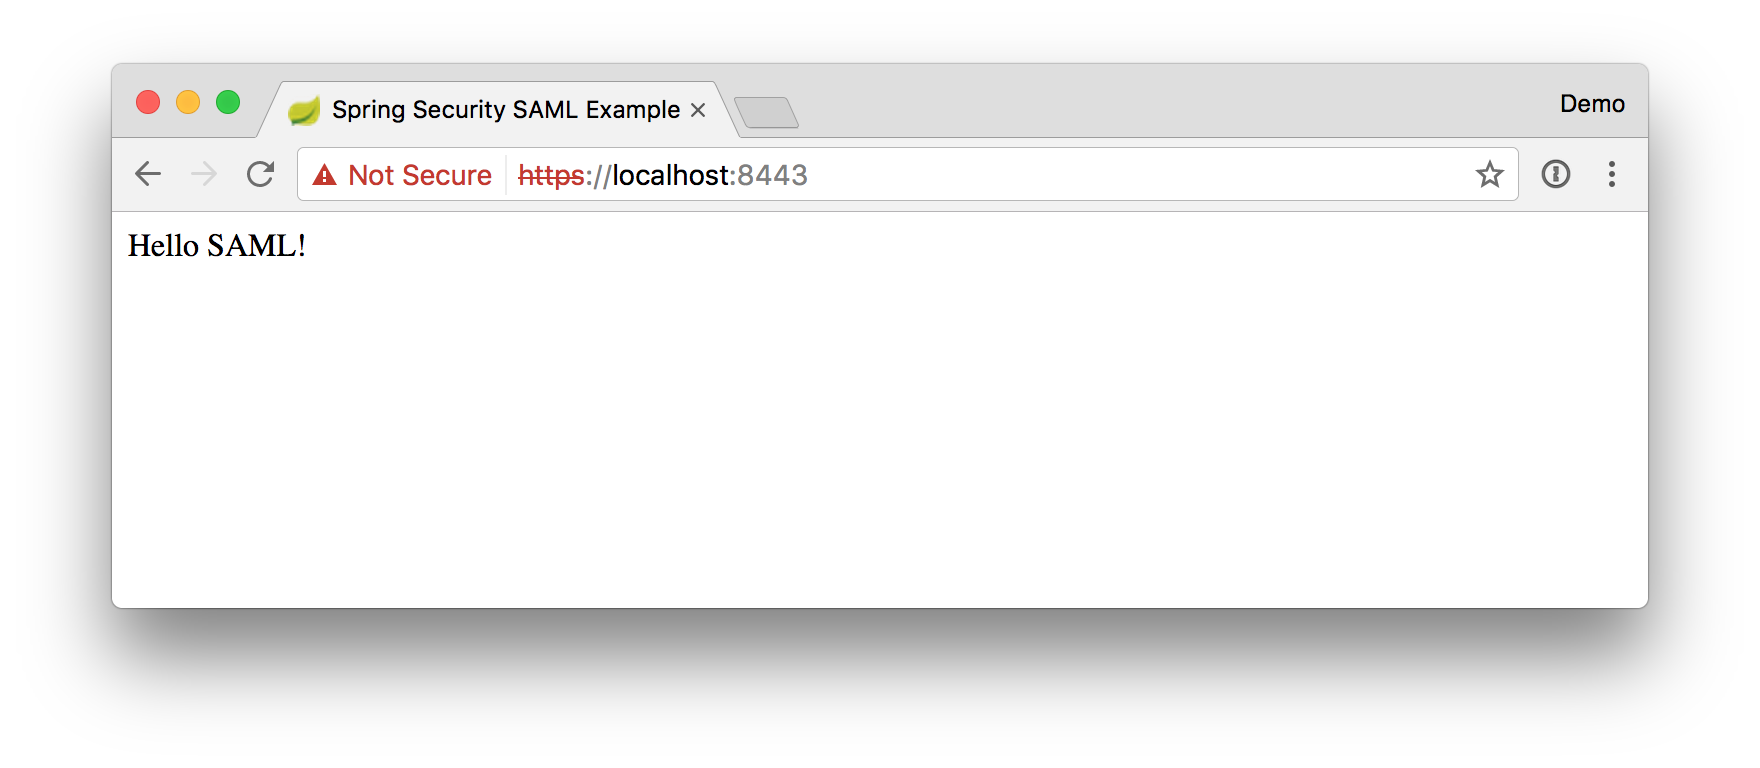
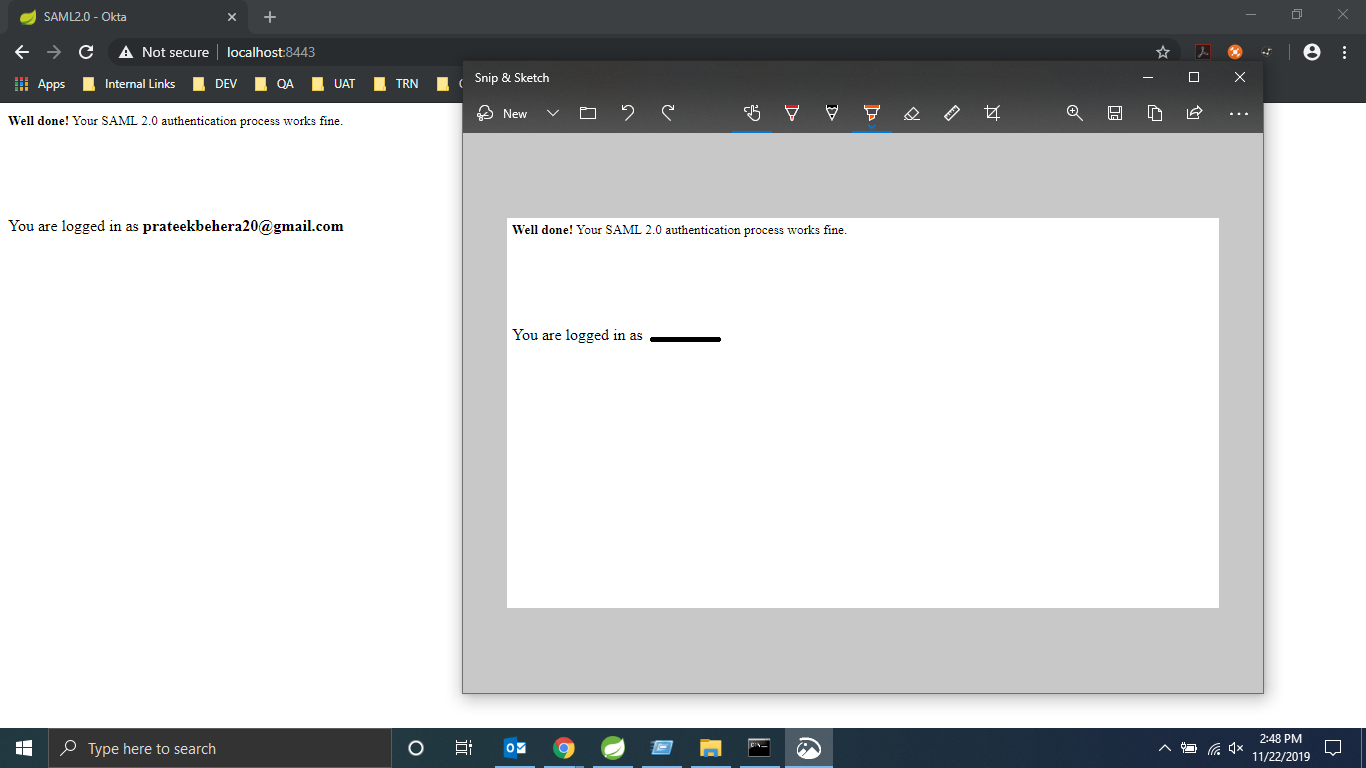
Updated README.md

diff --git a/src/main/java/com/saml/okta/config/MvcConfig.java b/src/main/java/com/saml/okta/config/MvcConfig.java
@@ -1,0 +1,94 @@
+package com.saml.okta.config;
+
+import java.util.List;
+
+import org.springframework.beans.factory.annotation.Autowired;
+import org.springframework.context.annotation.Configuration;
+import org.springframework.format.FormatterRegistry;
+import org.springframework.http.converter.HttpMessageConverter;
+import org.springframework.validation.MessageCodesResolver;
+import org.springframework.validation.Validator;
+import org.springframework.web.method.support.HandlerMethodArgumentResolver;
+import org.springframework.web.method.support.HandlerMethodReturnValueHandler;
+import org.springframework.web.servlet.HandlerExceptionResolver;
+import org.springframework.web.servlet.config.annotation.AsyncSupportConfigurer;
+import org.springframework.web.servlet.config.annotation.ContentNegotiationConfigurer;
+import org.springframework.web.servlet.config.annotation.CorsRegistry;
+import org.springframework.web.servlet.config.annotation.DefaultServletHandlerConfigurer;
+import org.springframework.web.servlet.config.annotation.InterceptorRegistry;
+import org.springframework.web.servlet.config.annotation.PathMatchConfigurer;
+import org.springframework.web.servlet.config.annotation.ResourceHandlerRegistry;
+import org.springframework.web.servlet.config.annotation.ViewControllerRegistry;
+import org.springframework.web.servlet.config.annotation.ViewResolverRegistry;
+import org.springframework.web.servlet.config.annotation.WebMvcConfigurer;
+
+import com.saml.okta.stereotypes.CurrentUserHandlerMethodArgumentResolver;
+
+@Configuration
+public class MvcConfig implements WebMvcConfigurer{
+
+	@Autowired
+	CurrentUserHandlerMethodArgumentResolver currentUserHandlerMethodArgumentResolver;
+
+	@Override
+	public void configurePathMatch(PathMatchConfigurer configurer) {}
+
+	@Override
+	public void configureContentNegotiation(ContentNegotiationConfigurer configurer) {}
+
+	@Override
+	public void configureAsyncSupport(AsyncSupportConfigurer configurer) {}
+
+	@Override
+	public void configureDefaultServletHandling(DefaultServletHandlerConfigurer configurer) {}
+
+	@Override
+	public void addFormatters(FormatterRegistry registry) {}
+
+	@Override
+	public void addInterceptors(InterceptorRegistry registry) {}
+
+	@Override
+	public void addResourceHandlers(ResourceHandlerRegistry registry) {}
+
+	@Override
+	public void addCorsMappings(CorsRegistry registry) {}
+
+	@Override
+	public void addViewControllers(ViewControllerRegistry registry) {
+		registry.addViewController("/").setViewName("index");
+		}
+
+	@Override
+	public void configureViewResolvers(ViewResolverRegistry registry) {}
+
+	@Override
+	public void addArgumentResolvers(List<HandlerMethodArgumentResolver> argumentResolvers) {
+		argumentResolvers.add(currentUserHandlerMethodArgumentResolver);
+	}
+
+	@Override
+	public void addReturnValueHandlers(List<HandlerMethodReturnValueHandler> returnValueHandlers) {}
+
+	@Override
+	public void configureMessageConverters(List<HttpMessageConverter<?>> converters) {}
+
+	@Override
+	public void extendMessageConverters(List<HttpMessageConverter<?>> converters) {}
+
+	@Override
+	public void configureHandlerExceptionResolvers(List<HandlerExceptionResolver> exceptionResolvers) {}
+
+	@Override
+	public void extendHandlerExceptionResolvers(List<HandlerExceptionResolver> exceptionResolvers) {}
+
+	@Override
+	public Validator getValidator() {
+		return null;
+	}
+
+	@Override
+	public MessageCodesResolver getMessageCodesResolver() {
+		return null;
+	}
+}

diff --git a/src/main/java/com/saml/okta/config/SAMLConfig.java b/src/main/java/com/saml/okta/config/SAMLConfig.java
@@ -32,7 +32,6 @@ import org.springframework.security.config.annotation.web.configuration.EnableWe
 import org.springframework.security.config.annotation.web.configuration.WebSecurityConfigurerAdapter;
 import org.springframework.security.saml.SAMLAuthenticationProvider;
 import org.springframework.security.saml.SAMLBootstrap;
-import org.springframework.security.saml.SAMLDiscovery;
 import org.springframework.security.saml.SAMLEntryPoint;
 import org.springframework.security.saml.SAMLProcessingFilter;
 import org.springframework.security.saml.context.SAMLContextProviderImpl;
@@ -71,7 +70,7 @@ import com.saml.okta.stereotypes.SAMLUserDetailsServiceImpl;
 @EnableWebSecurity
 @Configuration
 @EnableGlobalMethodSecurity(securedEnabled = true)
-public class SAMLSecurityConfiguration extends WebSecurityConfigurerAdapter {
+public class SAMLConfig extends WebSecurityConfigurerAdapter {
 	@Value("${security.saml2.metadata-url}")
 	String metadataUrl;
 
@@ -272,13 +271,6 @@ public class SAMLSecurityConfiguration extends WebSecurityConfigurerAdapter {
 	public SAMLDefaultLogger samlLogger() {
 		return new SAMLDefaultLogger();
 	}
-
-	 /*@Bean
-	    public SAMLDiscovery samlIDPDiscovery() {
-	        SAMLDiscovery idpDiscovery = new SAMLDiscovery();
-	        idpDiscovery.setIdpSelectionPath("/saml/discovery");
-	        return idpDiscovery;
-	    }*/
 	 
 	@Bean
 	public FilterChainProxy samlFilter() throws Exception {
@@ -289,8 +281,6 @@ public class SAMLSecurityConfiguration extends WebSecurityConfigurerAdapter {
 				metadataDisplayFilter()));
 		chains.add(new DefaultSecurityFilterChain(new AntPathRequestMatcher("/saml/SSO/**"),
 				samlWebSSOProcessingFilter()));
-		/*chains.add(new DefaultSecurityFilterChain(new AntPathRequestMatcher("/saml/discovery/**"),
-	                samlIDPDiscovery()));*/
 
 		return new FilterChainProxy(chains);
 	}

diff --git a/src/main/java/com/saml/okta/stereotypes/CurrentUserHandlerMethodArgumentResolver.java b/src/main/java/com/saml/okta/stereotypes/CurrentUserHandlerMethodArgumentResolver.java
@@ -1,0 +1,35 @@
+package com.saml.okta.stereotypes;
+
+import java.security.Principal;
+
+import org.springframework.core.MethodParameter;
+import org.springframework.security.core.Authentication;
+import org.springframework.security.core.userdetails.User;
+import org.springframework.stereotype.Component;
+import org.springframework.web.bind.support.WebArgumentResolver;
+import org.springframework.web.bind.support.WebDataBinderFactory;
+import org.springframework.web.context.request.NativeWebRequest;
+import org.springframework.web.method.support.HandlerMethodArgumentResolver;
+import org.springframework.web.method.support.ModelAndViewContainer;
+
+@Component
+public class CurrentUserHandlerMethodArgumentResolver implements HandlerMethodArgumentResolver {
+
+	@Override
+	public boolean supportsParameter(MethodParameter methodParameter) {
+		return methodParameter.getParameterAnnotation(CurrentUser.class) != null
+				&& methodParameter.getParameterType().equals(User.class);
+	}
+
+	@Override
+	public Object resolveArgument(MethodParameter methodParameter, ModelAndViewContainer mavContainer,
+			NativeWebRequest webRequest, WebDataBinderFactory binderFactory) throws Exception {
+		if (this.supportsParameter(methodParameter)) {
+			Principal principal = (Principal) webRequest.getUserPrincipal();
+			return (User) ((Authentication) principal).getPrincipal();
+		} else {
+			return WebArgumentResolver.UNRESOLVED;
+		}
+	}
+
+}

diff --git a/src/main/java/com/saml/okta/stereotypes/SAMLUserDetailsServiceImpl.java b/src/main/java/com/saml/okta/stereotypes/SAMLUserDetailsServiceImpl.java
@@ -1,0 +1,29 @@
+package com.saml.okta.stereotypes;
+
+import java.util.ArrayList;
+import java.util.List;
+
+import org.springframework.security.core.GrantedAuthority;
+import org.springframework.security.core.authority.SimpleGrantedAuthority;
+import org.springframework.security.core.userdetails.User;
+import org.springframework.security.core.userdetails.UsernameNotFoundException;
+import org.springframework.security.saml.SAMLCredential;
+import org.springframework.security.saml.userdetails.SAMLUserDetailsService;
+import org.springframework.stereotype.Service;
+
+@Service
+public class SAMLUserDetailsServiceImpl implements SAMLUserDetailsService {
+
+	@Override
+	public Object loadUserBySAML(SAMLCredential credential) throws UsernameNotFoundException {
+		String username = credential.getNameID().getValue();
+
+		System.out.println("You are logged in as "+username);
+		List<GrantedAuthority> authorities = new ArrayList<GrantedAuthority>();
+		GrantedAuthority authority = new SimpleGrantedAuthority("ROLE_USER");
+		authorities.add(authority);
+
+		return new User(username, "", true, true, true, true, authorities);
+	}
+
+}

diff --git a/src/main/java/com/saml/okta/controller/IndexController.java b/src/main/java/com/saml/okta/controller/IndexController.java
@@ -1,0 +1,30 @@
+package com.saml.okta.controller;
+
+import java.util.Set;
+
+import org.springframework.beans.factory.annotation.Autowired;
+import org.springframework.security.core.userdetails.User;
+import org.springframework.security.saml.metadata.MetadataManager;
+import org.springframework.stereotype.Controller;
+import org.springframework.ui.Model;
+import org.springframework.web.bind.annotation.RequestMapping;
+
+import com.saml.okta.stereotypes.CurrentUser;
+
+@Controller
+public class IndexController {
+
+	@Autowired
+	private MetadataManager metadata;
+	
+	@RequestMapping("/")
+	 public String index(@CurrentUser User user, Model model) {
+    	Set<String> idps = metadata.getIDPEntityNames();
+		for (String idp : idps)
+			System.out.println("Configured Identity Provider for SSO: " + idp);
+		
+		model.addAttribute("username", 	user.getUsername());
+        return "index";
+    }
+
+}

diff --git a/src/main/java/com/saml/okta/stereotypes/CurrentUser.java b/src/main/java/com/saml/okta/stereotypes/CurrentUser.java
@@ -1,0 +1,12 @@
+package com.saml.okta.stereotypes;
+
+import java.lang.annotation.Documented;
+import java.lang.annotation.Retention;
+import java.lang.annotation.Target;
+import java.lang.annotation.ElementType;
+import java.lang.annotation.RetentionPolicy;
+
+@Target(ElementType.PARAMETER)
+@Retention(RetentionPolicy.RUNTIME)
+@Documented
+public @interface CurrentUser {}

diff --git a/src/main/java/com/saml/okta/SamlOktaApplication.java b/src/main/java/com/saml/okta/SamlOktaApplication.java
@@ -1,4 +1,4 @@
-package com.saml.okta.controller;
+package com.saml.okta;
 
 import org.springframework.boot.SpringApplication;
 import org.springframework.boot.autoconfigure.SpringBootApplication;

diff --git a/README.md b/README.md
@@ -10,23 +10,16 @@ Please read [Get Started with Spring Boot, SAML, and Okta](https://developer.okt
 
 * [Getting Started](#getting-started)
 * [Links](#links)
-* [Help](#help)
-* [License](#license)
 
 ## Getting Started
 
 To install this example application, run the following commands:
 
 ```bash
-git clone https://github.com/oktadeveloper/okta-spring-boot-saml-example.git
-cd okta-spring-boot-saml-example
+git clone https://github.com/prateekbehera20/SAML-SP-Initiated.git
 ```
 
-This will get a copy of the project installed locally. To install all of its dependencies and start the app, run:
- 
-```bash
-./mvnw spring-boot:run
-```
+This will get a copy of the project installed locally. To start the app, run it as standard java or spring boot app
 
 ### Create a SAML App in Okta
 
@@ -104,12 +97,3 @@ After you've logged in, you should see a screen like the one below.
 ## Links
 
 This example uses [Spring Security SAML DSL](https://github.com/spring-projects/spring-security-saml-dsl) to integrate with Okta. Kudos to the project's [spring-security-saml-dsl-sample for its instructions](https://github.com/spring-projects/spring-security-saml-dsl/blob/master/samples/spring-security-saml-dsl-sample/README.md).
-
-## Help
-
-Please post any questions as comments on the [blog post](http://developer.okta.com/blog/2017/03/16/spring-boot-saml), or visit our [Okta Developer Forums](https://devforum.okta.com/). You can also email developers@okta.com if would like to create a support ticket.
-
-## License
-
-Apache 2.0, see [LICENSE](LICENSE).
-
